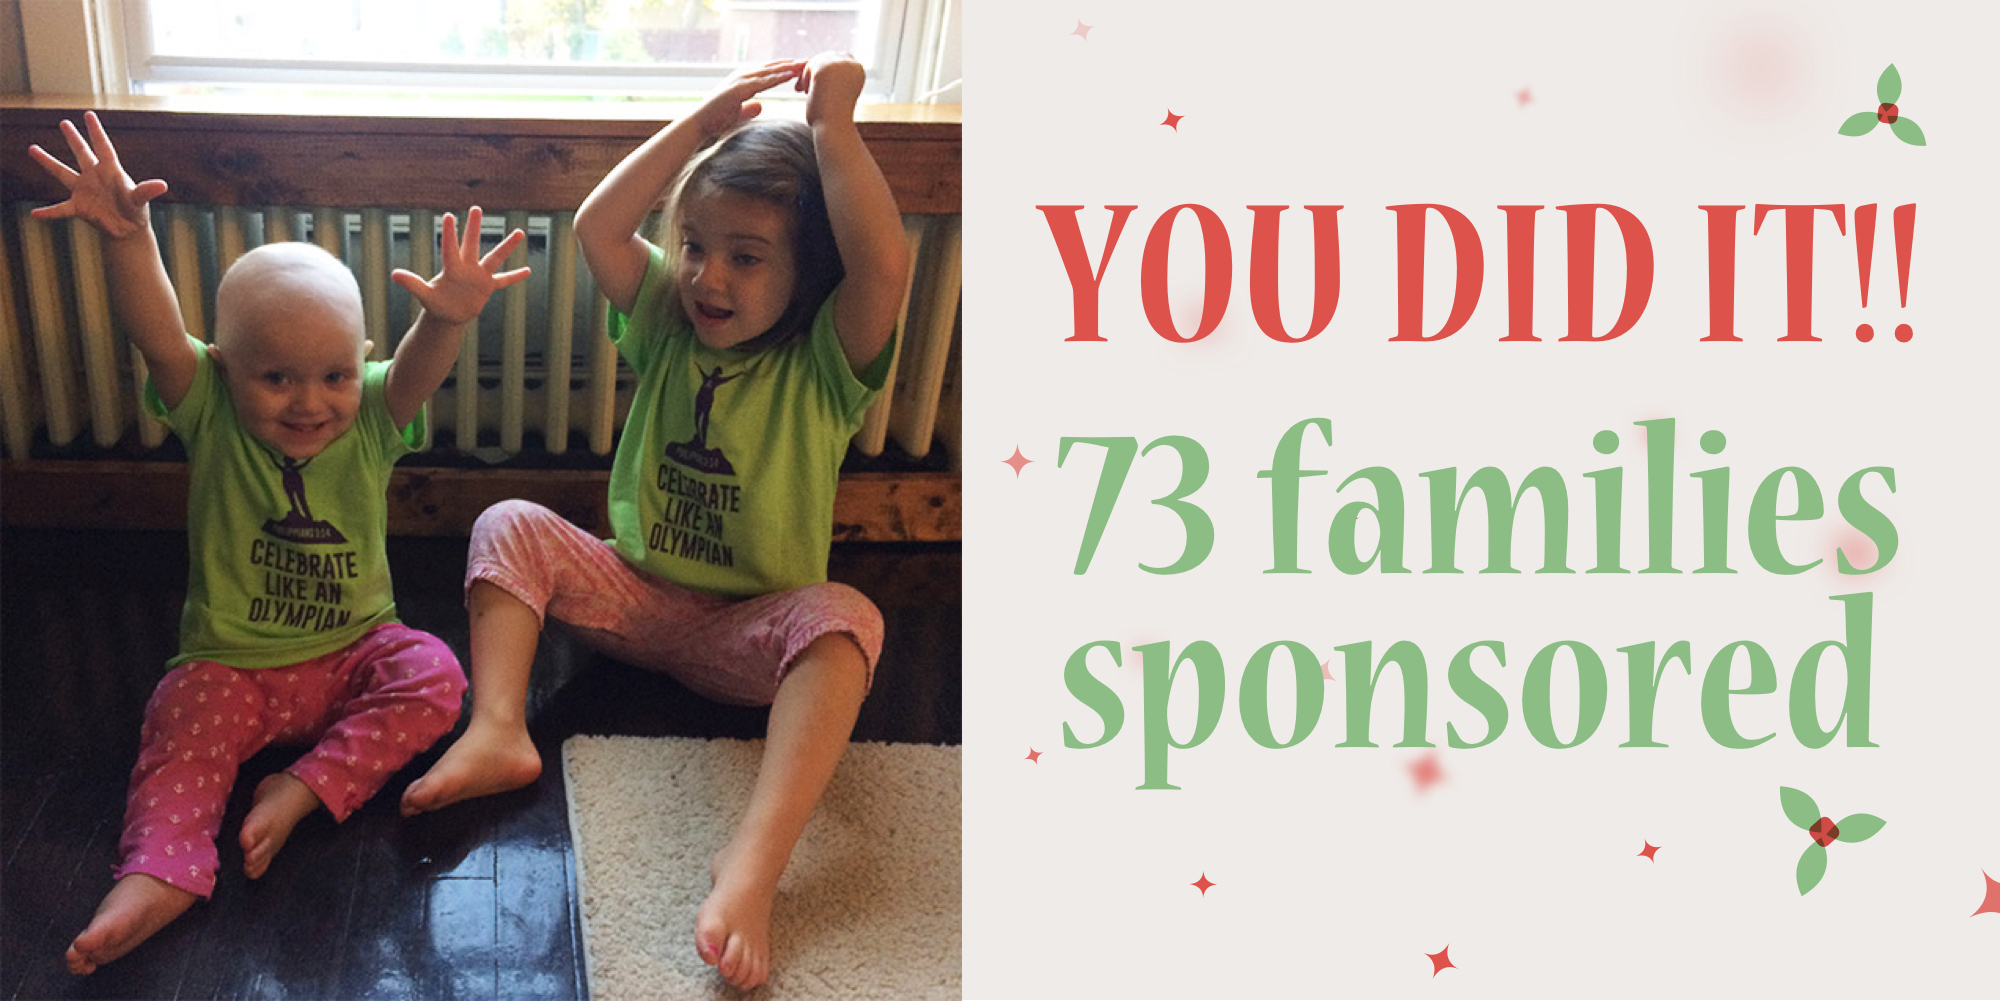
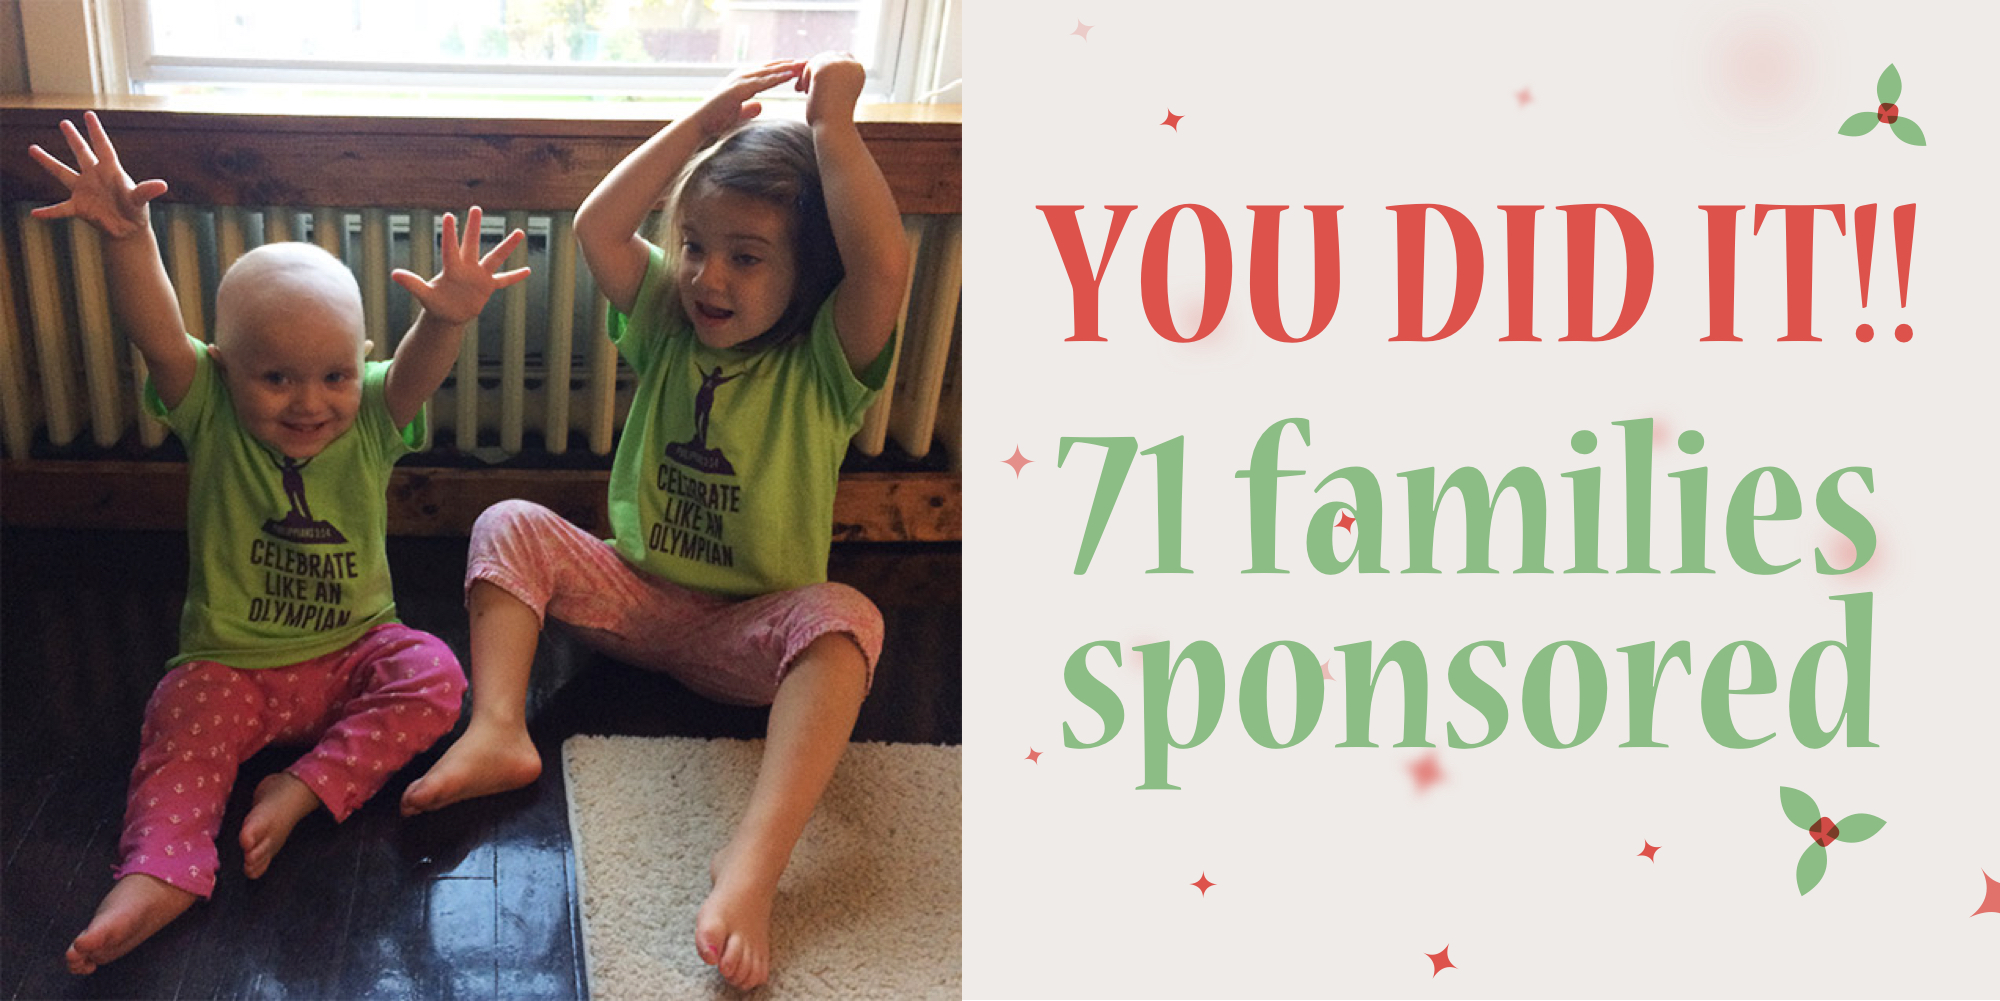
Updated the display of the page and added thank you.

Changed region(s): [[0.558, 0.4026, 0.961, 0.5884]]

diff --git a/public/gifts-of-hope.html b/public/gifts-of-hope.html
@@ -13,13 +13,13 @@
   
 <meta property="og:url" content="https://emmashopeinc.org/gifts-of-hope.html">
 <meta property="og:type" content="article">
-<meta property="og:title" content="Give Hope this Holiday Season">
-<meta property="og:description" content="Sponsor a $100 Visa gift card for a family whose children are receiving treatment for cancer and life-threatening illnesses this Christmas season. Every gift card we can give is helping to relieve the financial burden for a family who has far more to deal with than most.">
+<meta property="og:title" content="Thank You For Giving Hope This Christmas!">
+<meta property="og:description" content="Because of your incredible generosity, all 71 families have been sponsored — in just 20 days!! Your gift is a big deal! Because of you, these families will all receive a $100 gift card to use as they need. You're making our dream a reality, and we cannot thank you enough!">
 <meta property="og:image" content="https://emmashopeinc.org/img/gifts-of-hope--final2017.jpg">
 
 
   <style type="text/css">
-    .site{padding-top:6rem;margin:0;background:url(img/header-flowers--full@2x.jpg) left top no-repeat;background-size:30%}@media (min-width:940px){.site{padding-top:0;background-size:333px 354px}}.site-title{margin-top:0;margin-bottom:3rem;padding-top:2rem;background:url(img/title-separator@2x.png) center top no-repeat;background-size:174px}@media (min-width:450px){.site-title{margin-top:3rem}}a{color:#ef5f89}*{box-sizing:border-box}html{-webkit-font-smoothing:antialiased;text-rendering:optimizeLegibility;-osx-moz-font-smoothing:grayscale;font-family:Montserrat,"Trebuchet MS",Helvetica,sans-serif;font-size:100%;line-height:1.5}h1{margin-top:.25rem;margin-bottom:.5rem;font-family:"Glass Antiqua",cursive;font-weight:400;line-height:1.2}h1{font-size:400%}h1{text-align:center}.button,input[type=submit].button{padding:.5rem 1rem;display:inline-block;background-color:#ef5f89;border:0;border-radius:60px;color:#fff;font-family:Montserrat,"Trebuchet MS",Helvetica,sans-serif;font-size:100%;text-decoration:none;-webkit-appearance:none!important}.button--nobg{padding:0;background-color:transparent;color:#000}.button--small,input[type=submit].button--small{padding:.3rem .75rem}.content-block{max-width:60ch;margin:0 auto 4rem;padding-left:2rem;padding-right:2rem}@media (min-width:700px){.content-block{padding-left:0;padding-right:0}}.gifts-wrap{display:flex;flex-flow:row wrap}.gifts-wrap .progress{order:2}.gifts-wrap .sponsor{order:1}@media (min-width:540px){.gifts-wrap{display:block}}.progress-goal{margin-bottom:1rem;font-size:200%;font-weight:300;text-align:center}.progress-bar{width:100%;height:30px;background:#efebe8;border-radius:15px;overflow:hidden}.progress-meter{height:30px;max-width:100%;float:left;background:#9fc39c}.progress-stats{display:flex;flex-flow:row wrap;align-items:center;justify-content:space-between;margin-top:1rem}.progress-stat{margin-bottom:1rem;flex-basis:50%;text-align:center}@media (min-width:540px){.progress-stat{margin-bottom:0;flex-basis:auto;text-align:left}}.progress-number{display:block}.sponsor{margin-bottom:4rem;font-size:120%;text-align:center}@media (min-width:540px){.sponsor{margin-top:5rem;margin-bottom:5rem;font-size:150%}}.sponsor-button-wrap{margin-top:1rem;margin-bottom:1rem;display:flex;flex-flow:row wrap;align-items:center;justify-content:space-between}.sponsor input[type=radio]{-webkit-appearance:none;-moz-appearance:none;opacity:0;position:absolute}.sponsor input[type=radio]:checked+label{background:#f5e8b9}.sponsor-button{flex-basis:100%;display:inline-block;padding:.25rem 1rem;margin-bottom:1rem;flex-basis:100%;background:#fff;border:1px solid #f5e8b9;border-radius:30px}@media (min-width:370px){.sponsor-button{flex-basis:calc(50% - 1rem)}}@media (min-width:650px){.sponsor-button{flex-basis:auto;font-size:90%}}.sponsor input[type=submit].button{margin-top:1rem}@media (min-width:540px){.sponsor input[type=submit].button{margin-top:0}}.sponsor-helper{max-width:70ch;margin:2rem auto 0;font-size:80%}@media (min-width:540px){.sponsor-helper{font-size:50%}}.site-header{display:flex;align-items:center;justify-content:space-between;position:fixed;bottom:0;left:0;padding:.5rem 1rem;width:100%;background-color:#fff;border-top:1px solid #f2f2f2;box-shadow:0 -1px 10px rgba(0,0,0,.05);z-index:10}@media (min-width:940px){.site-header{margin-top:1rem;margin-right:1rem;justify-content:flex-end;position:static;width:auto;background-color:transparent;border-top-width:0;box-shadow:none;z-index:auto}}.header-logo{height:42px;width:42px;border:1px solid #be994e;border-radius:50%;color:#000;font-family:Baskerville,"Baskerville Old Face","Hoefler Text",Garamond,"Times New Roman",serif;font-weight:700;line-height:40px;text-align:center;text-decoration:none}@media (min-width:940px){.mobile-donate,.mobile-menu{display:none}}.header-nav{position:fixed;bottom:59px;left:0;height:calc(50vh - 59px);width:100%;display:flex;align-items:center;justify-content:center;background-color:#fff;box-shadow:0 -1px 10px rgba(0,0,0,.05);font-size:110%;opacity:0;transform:translateY(400vh);z-index:-1}@media (min-width:940px){.header-nav{display:block;width:auto;height:auto;position:static;background-color:transparent;box-shadow:none;font-size:90%;opacity:1;transform:translateY(0);z-index:initial}}.header-nav ul{margin:0;padding:0;list-style:none;text-align:center}@media (min-width:940px){.header-nav ul{text-align:left}}.header-nav li{display:block}@media (min-width:940px){.header-nav li{display:inline-block;margin-left:1.5rem}}.header-nav a{display:block;padding-top:.75rem;padding-bottom:.75rem;color:#000;text-decoration:none}@media (min-width:940px){.header-nav a{position:relative;display:inline;padding-top:0;padding-bottom:0}.header-nav a::after{content:'';position:absolute;bottom:-6px;left:0;height:3px;width:0;background-color:#ef5f89}}.header-nav a.button{display:none;color:#fff}@media (min-width:940px){.header-nav a.button{display:inline-block;padding-top:.3rem;padding-bottom:.3rem}}
+    .site{padding-top:6rem;margin:0;background:url(img/header-flowers--full@2x.jpg) left top no-repeat;background-size:30%}@media (min-width:940px){.site{padding-top:0;background-size:333px 354px}}.site-title{margin-top:0;margin-bottom:3rem;padding-top:2rem;background:url(img/title-separator@2x.png) center top no-repeat;background-size:174px}@media (min-width:450px){.site-title{margin-top:3rem}}p{margin-left:1rem;margin-right:1rem;font-size:110%}a{color:#ef5f89}*{box-sizing:border-box}html{-webkit-font-smoothing:antialiased;text-rendering:optimizeLegibility;-osx-moz-font-smoothing:grayscale;font-family:Montserrat,"Trebuchet MS",Helvetica,sans-serif;font-size:100%;line-height:1.5}h1,h2{margin-top:.25rem;margin-bottom:.5rem;font-family:"Glass Antiqua",cursive;font-weight:400;line-height:1.2}h1{font-size:400%}h2{font-size:300%}h1,h2{text-align:center}.button{padding:.5rem 1rem;display:inline-block;background-color:#ef5f89;border:0;border-radius:60px;color:#fff;font-family:Montserrat,"Trebuchet MS",Helvetica,sans-serif;font-size:100%;text-decoration:none;-webkit-appearance:none!important}.button--nobg{padding:0;background-color:transparent;color:#000}.button--small{padding:.3rem .75rem}.content-block{max-width:60ch;margin:0 auto 4rem;padding-left:2rem;padding-right:2rem}@media (min-width:700px){.content-block{padding-left:0;padding-right:0}}.content-block h2{text-align:left}.content-block p{margin-left:0}.gifts-wrap{display:flex;flex-flow:row wrap}.gifts-wrap .progress{order:2}@media (min-width:540px){.gifts-wrap{display:block}}.progress-goal{margin-bottom:1rem;font-size:200%;font-weight:300;text-align:center}.progress-bar{width:100%;height:30px;background:#efebe8;border-radius:15px;overflow:hidden}.progress-meter{height:30px;max-width:100%;float:left;background:#9fc39c}.progress-stats{display:flex;flex-flow:row wrap;align-items:center;justify-content:space-between;margin-top:1rem}.progress-stat{margin-bottom:1rem;flex-basis:50%;text-align:center}@media (min-width:540px){.progress-stat{margin-bottom:0;flex-basis:auto;text-align:left}}.progress-number{display:block}.site-header{display:flex;align-items:center;justify-content:space-between;position:fixed;bottom:0;left:0;padding:.5rem 1rem;width:100%;background-color:#fff;border-top:1px solid #f2f2f2;box-shadow:0 -1px 10px rgba(0,0,0,.05);z-index:10}@media (min-width:940px){.site-header{margin-top:1rem;margin-right:1rem;justify-content:flex-end;position:static;width:auto;background-color:transparent;border-top-width:0;box-shadow:none;z-index:auto}}.header-logo{height:42px;width:42px;border:1px solid #be994e;border-radius:50%;color:#000;font-family:Baskerville,"Baskerville Old Face","Hoefler Text",Garamond,"Times New Roman",serif;font-weight:700;line-height:40px;text-align:center;text-decoration:none}@media (min-width:940px){.mobile-donate,.mobile-menu{display:none}}.header-nav{position:fixed;bottom:59px;left:0;height:calc(50vh - 59px);width:100%;display:flex;align-items:center;justify-content:center;background-color:#fff;box-shadow:0 -1px 10px rgba(0,0,0,.05);font-size:110%;opacity:0;transform:translateY(400vh);z-index:-1}@media (min-width:940px){.header-nav{display:block;width:auto;height:auto;position:static;background-color:transparent;box-shadow:none;font-size:90%;opacity:1;transform:translateY(0);z-index:initial}}.header-nav ul{margin:0;padding:0;list-style:none;text-align:center}@media (min-width:940px){.header-nav ul{text-align:left}}.header-nav li{display:block}@media (min-width:940px){.header-nav li{display:inline-block;margin-left:1.5rem}}.header-nav a{display:block;padding-top:.75rem;padding-bottom:.75rem;color:#000;text-decoration:none}@media (min-width:940px){.header-nav a{position:relative;display:inline;padding-top:0;padding-bottom:0}.header-nav a::after{content:'';position:absolute;bottom:-6px;left:0;height:3px;width:0;background-color:#ef5f89}}.header-nav a.button{display:none;color:#fff}@media (min-width:940px){.header-nav a.button{display:inline-block;padding-top:.3rem;padding-bottom:.3rem}}
   </style>
   <script>
     WebFontConfig = {
@@ -92,17 +92,17 @@
   
   <section class="gifts-wrap content-block">
     <div class="progress">
-      <div class="progress-goal">73 of 71 families sponsored!</div>
+      <div class="progress-goal">71 of 71 families sponsored!</div>
       <div class="progress-bar">
-        <div style="width: 102.82%;" class="progress-meter"></div>
+        <div style="width: 100%;" class="progress-meter"></div>
       </div>
       <div class="progress-stats">
         <div class="progress-stat">
-          <span class="progress-number">102.82%</span>
+          <span class="progress-number">100%</span>
           <span class="progress-label">Funded</span>
         </div>
         <div class="progress-stat">
-          <span class="progress-number">$7300</span>
+          <span class="progress-number">$7100</span>
           <span class="progress-label">Raised</span>
         </div>
         <div class="progress-stat">
@@ -116,7 +116,7 @@
       </div>
     </div>
     
-    <div class="sponsor">
+    <!-- <div class="sponsor">
       <div class="sponsor-helper">Choose how many families you would like to sponsor this Christmas season.</div><br>
       <form action="https://www.paypal.com/cgi-bin/webscr" method="post" target="_top">
         <span>Sponsor</span>
@@ -138,7 +138,7 @@
           <label for="sponsor-10" class="sponsor-button">10 families</label>
         </div>
         <!-- <input type="number" min="1" max="71" value="1" class="sponsor-amount js-sponsor-amount"> -->
-        <input type="hidden" name="amount" value="102.56" class="js-send-amount">
+        <!-- <input type="hidden" name="amount" value="102.56" class="js-send-amount">
         <span>for</span>
         <input type="hidden" name="rm" value="1">
         <input type="hidden" name="return" value="https://emmashopeinc.org/thank-you.html">
@@ -148,9 +148,9 @@
       </form>
       <div class="sponsor-helper">The extra cost associated with each sponsorship is to offset the fee generated by PayPal. For example, if you sponsor 1 family, you would give $102.56, which will equal $100 to Emma's Hope, allowing us to purchase the full gift card amount.</div>
     </div>
-  </section>
+  </section> -->
   
-  <section class="content-block">
+  <!--<section class="content-block">
     <h2>Or, Mail In Your Sponsorship</h2>
     <p>Please make all checks payable to Emma's Hope, Inc and send to:</p>
     <address>
@@ -159,14 +159,20 @@
       Sherrill, NY 13461
     </address>
     <p><em>Please add <strong>"Gifts of Hope"</strong> to the Memo line.</em></p>
+  </section>-->
+  <section class="content-block"></section>
+  <section class="content-block">
+    <h2>Thank You!</h2>
+    <p>Because of your incredible generosity, all 71 families have been sponsored — in just 20 days!! Your gift is a big deal! Because of you, these families will all receive a $100 gift card to use as they need.</p>
+    <p>You're making our dream a reality, and we cannot thank you enough!</p>
   </section>
-
+  
   <section class="content-block">
     <h2>The Need</h2>
     <p>The Christmas season is a wonderful time, but it can also bring along with it stress and anxiety, especially for those whose children are actively receiving treatment for cancer and other life-threatening illnesses. One way we can help is by providing a general gift card, allowing families to use the amount for their individual needs.</p>
   </section>
 
-  </main>
+  </section></main>
 
   
     <section class="cta" role="complementary">

diff --git a/pages/gifts-of-hope.html b/pages/gifts-of-hope.html
@@ -3,7 +3,7 @@
 {% set page_title = "gifts-of-hope" %}
 
 {% set num_sponsors = 31 %}
-{% set donation_total = 7300 %}
+{% set donation_total = 7100 %}
 {% set donation_goal = 7100 %}
 
 {% block site_title %}Give a Christmas Gift of Hope to Parents of Children Undergoing Cancer Treatment | {% endblock %}
@@ -11,8 +11,8 @@
 {% block share_meta %}
 <meta property="og:url" content="https://emmashopeinc.org/gifts-of-hope.html" />
 <meta property="og:type" content="article" />
-<meta property="og:title" content="Give Hope this Holiday Season" />
-<meta property="og:description" content="Sponsor a $100 Visa gift card for a family whose children are receiving treatment for cancer and life-threatening illnesses this Christmas season. Every gift card we can give is helping to relieve the financial burden for a family who has far more to deal with than most." />
+<meta property="og:title" content="Thank You For Giving Hope This Christmas!" />
+<meta property="og:description" content="Because of your incredible generosity, all 71 families have been sponsored — in just 20 days!! Your gift is a big deal! Because of you, these families will all receive a $100 gift card to use as they need. You're making our dream a reality, and we cannot thank you enough!" />
 <meta property="og:image" content="https://emmashopeinc.org/img/gifts-of-hope--final2017.jpg" />
 {% endblock share_meta %}
 
@@ -49,7 +49,7 @@
       </div>
     </div>
     
-    <div class="sponsor">
+    <!-- <div class="sponsor">
       <div class="sponsor-helper">Choose how many families you would like to sponsor this Christmas season.</div><br>
       <form action="https://www.paypal.com/cgi-bin/webscr" method="post" target="_top">
         <span>Sponsor</span>
@@ -71,7 +71,7 @@
           <label for="sponsor-10" class="sponsor-button">10 families</label>
         </div>
         <!-- <input type="number" min="1" max="71" value="1" class="sponsor-amount js-sponsor-amount"> -->
-        <input type="hidden" name="amount" value="102.56" class="js-send-amount">
+        <!-- <input type="hidden" name="amount" value="102.56" class="js-send-amount">
         <span>for</span>
         <input type="hidden" name="rm" value="1">
         <input type="hidden" name="return" value="https://emmashopeinc.org/thank-you.html">
@@ -81,9 +81,9 @@
       </form>
       <div class="sponsor-helper">The extra cost associated with each sponsorship is to offset the fee generated by PayPal. For example, if you sponsor 1 family, you would give $102.56, which will equal $100 to Emma's Hope, allowing us to purchase the full gift card amount.</div>
     </div>
-  </section>
+  </section> -->
   
-  <section class="content-block">
+  <!--<section class="content-block">
     <h2>Or, Mail In Your Sponsorship</h2>
     <p>Please make all checks payable to Emma's Hope, Inc and send to:</p>
     <address>
@@ -92,8 +92,14 @@
       Sherrill, NY 13461
     </address>
     <p><em>Please add <strong>"Gifts of Hope"</strong> to the Memo line.</em></p>
+  </section>-->
+  <section class="content-block"></section>
+  <section class="content-block">
+    <h2>Thank You!</h2>
+    <p>Because of your incredible generosity, all 71 families have been sponsored — in just 20 days!! Your gift is a big deal! Because of you, these families will all receive a $100 gift card to use as they need.</p>
+    <p>You're making our dream a reality, and we cannot thank you enough!</p>
   </section>
-
+  
   <section class="content-block">
     <h2>The Need</h2>
     <p>The Christmas season is a wonderful time, but it can also bring along with it stress and anxiety, especially for those whose children are actively receiving treatment for cancer and other life-threatening illnesses. One way we can help is by providing a general gift card, allowing families to use the amount for their individual needs.</p>
